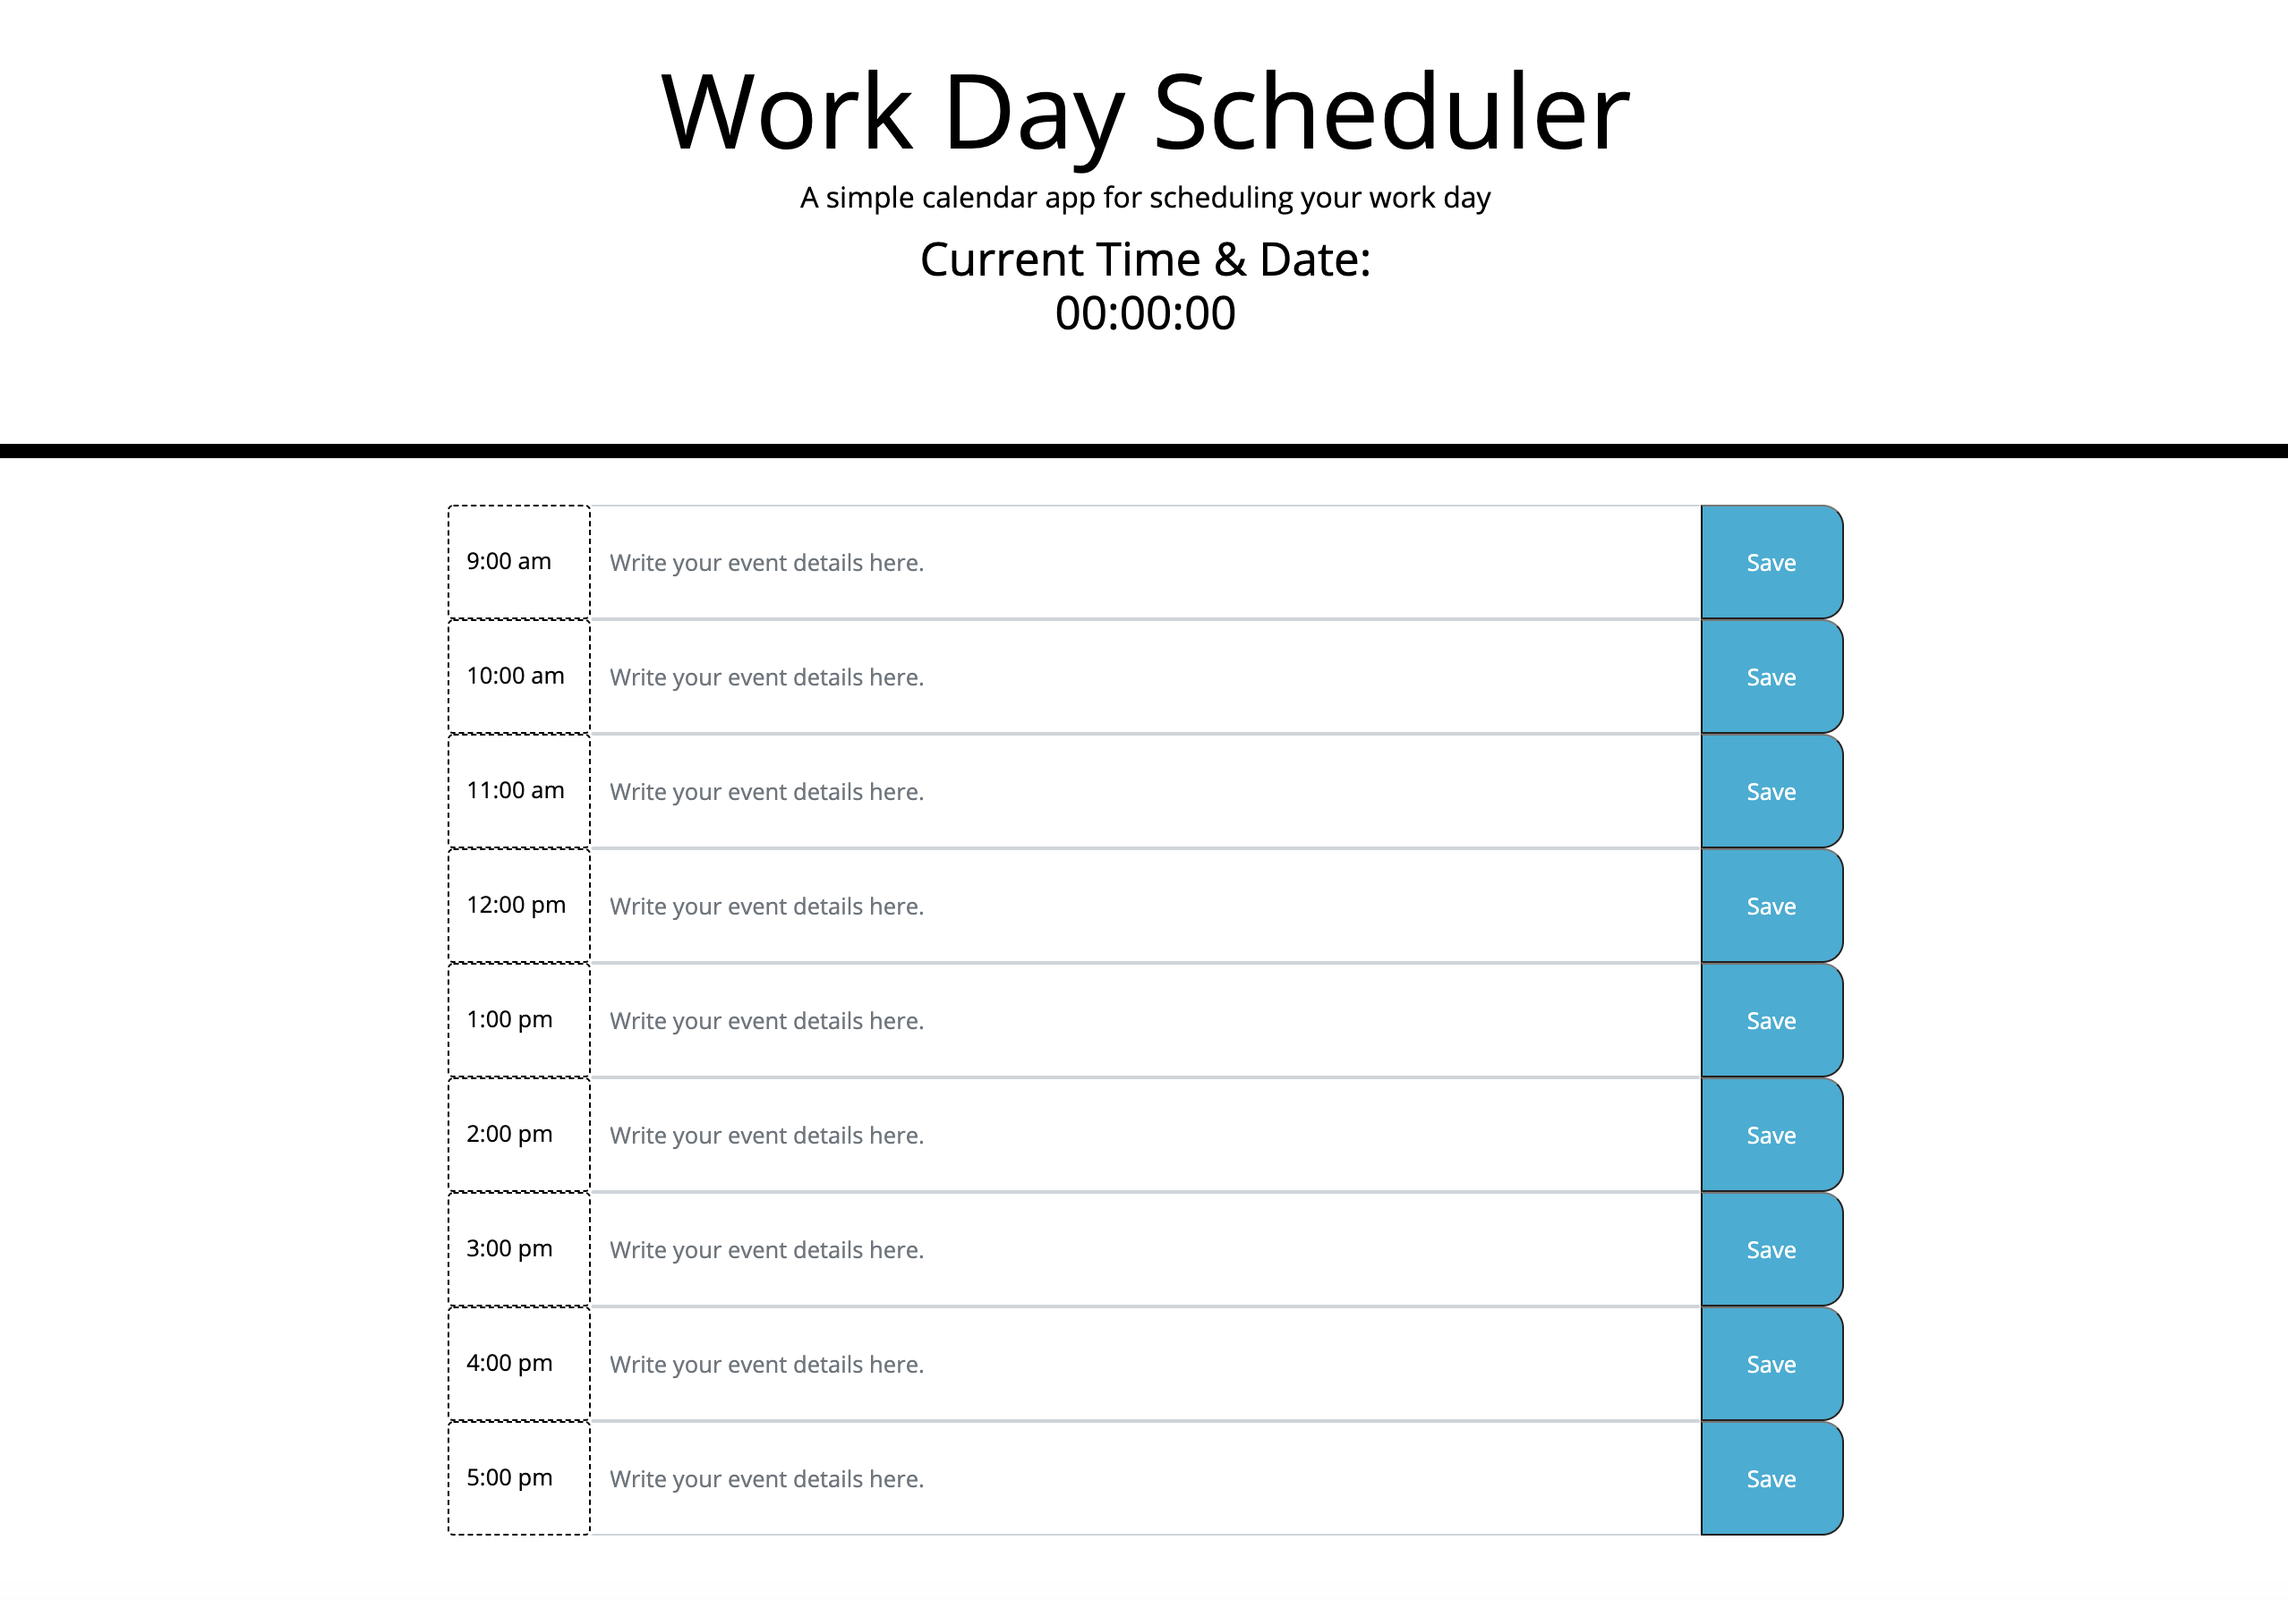
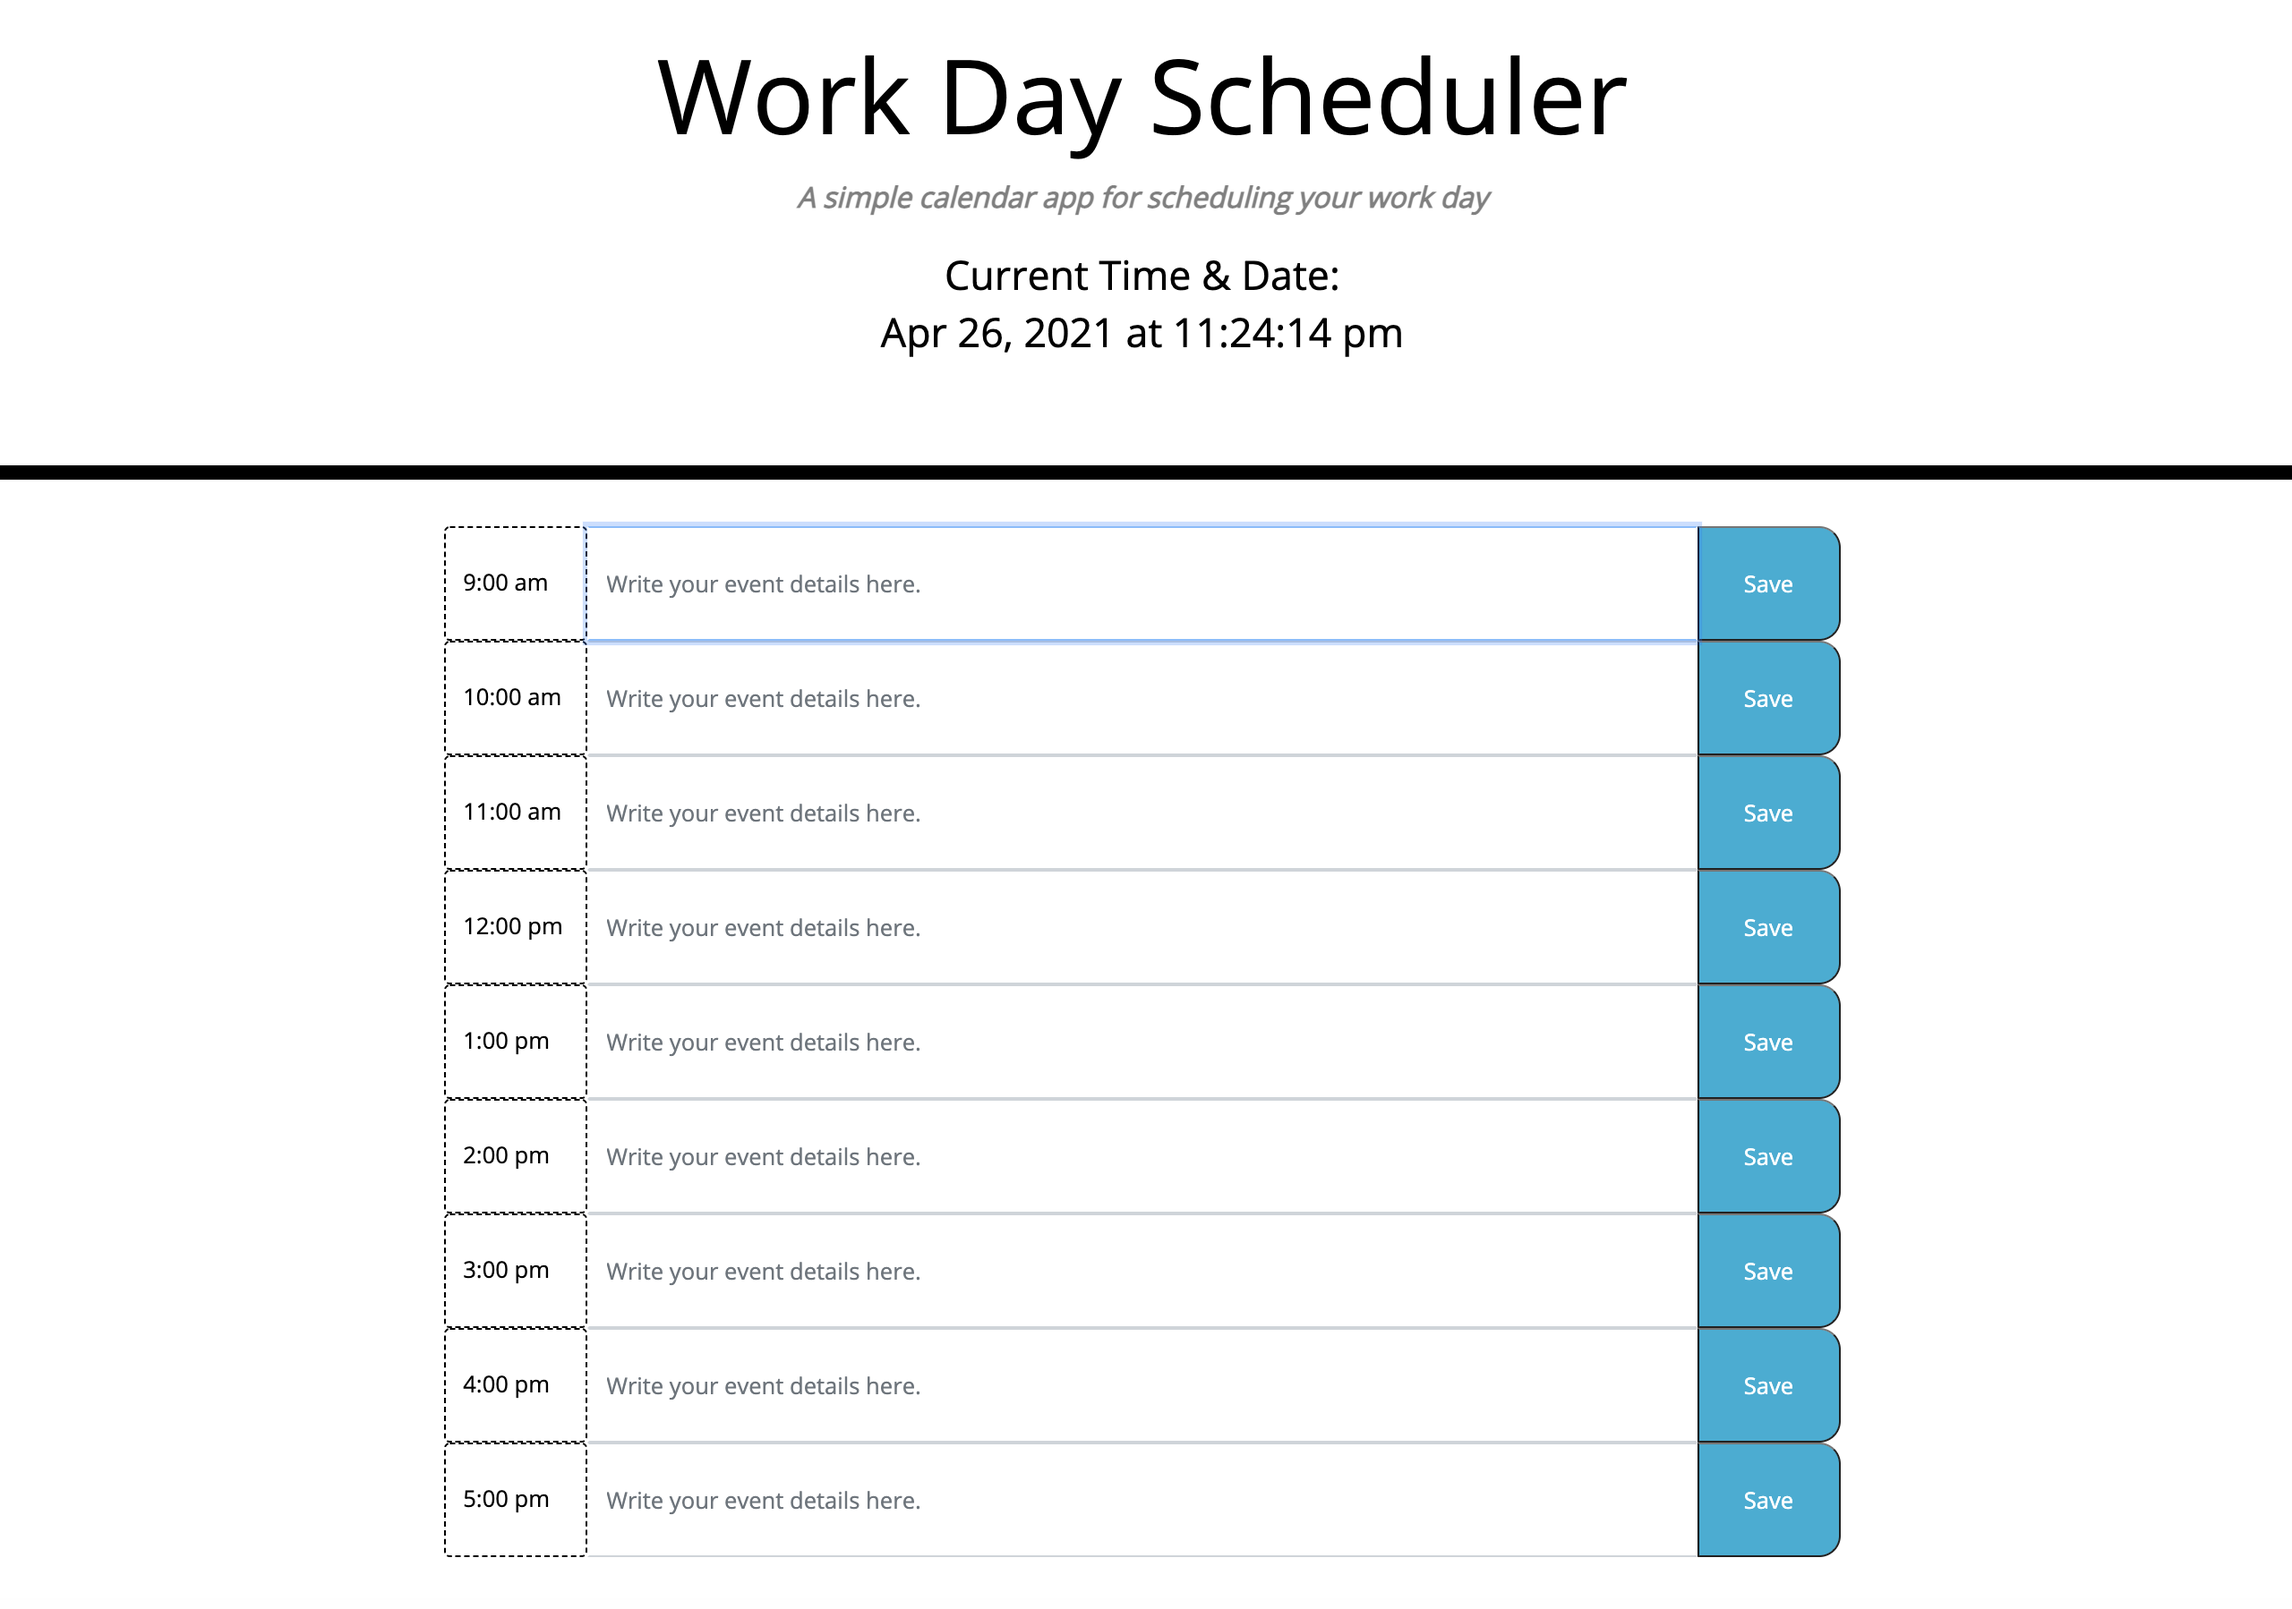
updated README.md, corrected funtion for mcurrent day using moment.js

Changed region(s): [[0.0, 0.2768, 1.0, 0.9843], [0.2782, 0.0308, 0.7109, 0.2153]]

diff --git a/index.html b/index.html
@@ -5,11 +5,13 @@
   <meta charset="UTF-8" />
   <meta name="viewport" content="width=device-width, initial-scale=1.0" />
   <meta http-equiv="X-UA-Compatible" content="ie=edge" />
-  <link rel="stylesheet" href="https://code.jquery.com/ui/1.12.1/themes/base/jquery-ui.css">
+  <link href="https://fonts.googleapis.com/css?family=Open+Sans&display=swap" rel="stylesheet" />
+  <script type="text/javascript" src="https://cdnjs.cloudflare.com/ajax/libs/moment.js/2.27.0/moment.min.js"></script>
+  <script src="https://code.jquery.com/jquery-3.5.1.min.js"
+    integrity="sha256-9/aliU8dGd2tb6OSsuzixeV4y/faTqgFtohetphbbj0=" crossorigin="anonymous"></script>
   <link rel="stylesheet" href="https://cdnjs.cloudflare.com/ajax/libs/twitter-bootstrap/4.5.0/css/bootstrap.min.css">
   <link rel="stylesheet" href="https://use.fontawesome.com/releases/v5.8.1/css/all.css"
     integrity="sha384-50oBUHEmvpQ+1lW4y57PTFmhCaXp0ML5d60M1M7uH2+nqUivzIebhndOJK28anvf" crossorigin="anonymous" />
-  <link href="https://fonts.googleapis.com/css?family=Open+Sans&display=swap" rel="stylesheet" />
   <link rel="stylesheet" href="./assets/style.css" />
   <title>Work Day Scheduler</title>
 </head>
@@ -86,9 +88,6 @@
                       <button class="saveBtn" type="button" id="i">Save</button>
                     </div>
   </section>
-  <script src="https://cdnjs.cloudflare.com/ajax/libs/moment.js/2.27.0/moment.min.js"></script>
-  <script src="https://code.jquery.com/ui/1.12.0/jquery-ui.min.js"></script>
-  <script src="https://cdnjs.cloudflare.com/ajax/libs/jquery/3.5.1/jquery.min.js"></script>
   <script src="https://cdnjs.cloudflare.com/ajax/libs/popper.js/1.16.1/umd/popper.min.js"></script>
   <script src="https://cdnjs.cloudflare.com/ajax/libs/twitter-bootstrap/4.5.0/js/bootstrap.min.js"></script>
   <script src="./assets/script.js"></script>

diff --git a/assets/script.js b/assets/script.js
@@ -5,14 +5,17 @@ var placeholder = ''
 var workingHours = $(8) //9am - 5pm
 var selectedTime = $('#hour')
 
-usertextInput.text = "#row";
-console.log('entry added')
-function displayTime();
+var today = moment();
+$("#time-display").text(today.format('MMM DD, YYYY [at] hh:mm:ss a'));
 
-function displayTime() {
-    var rightNow = moment().format('MMM DD, YYYY [at] hh:mm:ss a');
-    timeDisplayEl.text(rightNow);
-}
+// usertextInput.text = "#row";
+// console.log('entry added')
+// function displayTime()
+
+// function displayTime() {
+//     moment().format('MMM DD, YYYY [at] hh:mm:ss a');
+//     timeDisplayEl.text(rightNow);
+// }
 
 
 

diff --git a/assets/style.css b/assets/style.css
@@ -25,6 +25,18 @@ textarea {
   font-weight: bolder;
 }
 
+.lead {
+  font-style: italic;
+  font-weight: bolder;
+  line-height: 40px;
+  color: gray;
+}
+
+h2 {
+  line-height: 40px;
+  font-size: 28px;
+}
+
 .description {
   white-space: pre-wrap;
 }

diff --git a/README.md b/README.md
@@ -5,19 +5,17 @@ Simple calendar application that allows a user to save events for each hour of t
 The goal was to use what we learned about third-party APIs in order to build a calendar that saves the user's inputs in the browser. This app needed to include the [Moment.js](https://momentjs.com/) library in order to successfully work with date and time. 
 
 
-## Issues:
+## Issues:`
 - Getting data to save to local storage
-- Getting time to show up correctly from moment.js
-
 
 ## Results:
 
 ![Finished Work Day Scheduler.](./screenshot.png)
 
-Utilizing bootstrap was successful as well as creating some JQuery elements. Functions will need to be re-visited and re-worked in order to properly display the timer.
+Utilizing bootstrap was successful as well as creating some JQuery elements. Functions will need to be re-visited and re-worked in order to properly save the data to the browser and set color attributes in jquery.
 
 ## Summary:
-This assignment was interesting. In using bootstrap I discovered that certain built-in html classes cannot be changed without effecting the style of the examples from the bootstrap site. The process for incorporating the moment.js library as well as JQuery were challenging
+This assignment was interesting. In using bootstrap I discovered that certain built-in html classes cannot be changed without effecting the style of the examples from the bootstrap site. The process for incorporating the moment.js library as well as JQuery were challenging.
 
 
 ## Table of Contents
